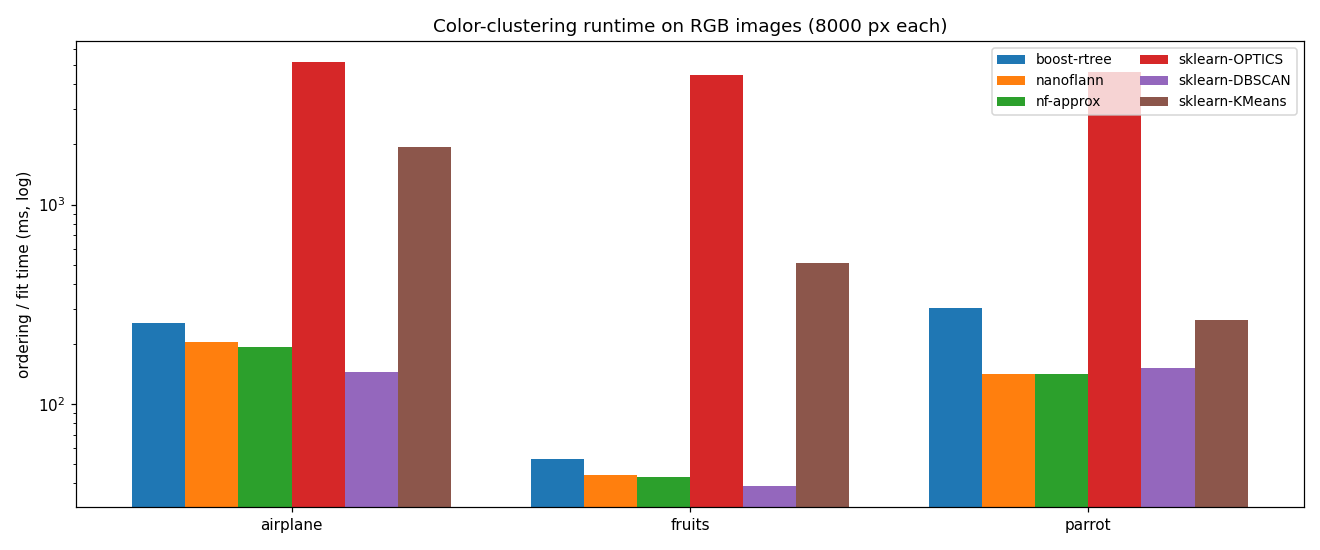
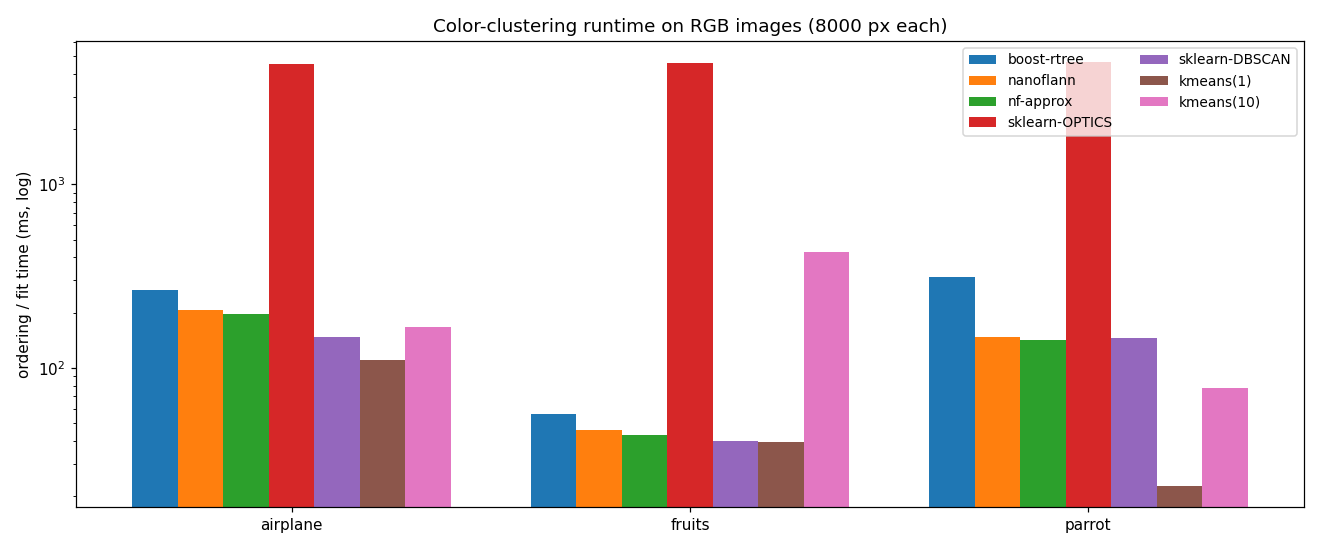
fix(perf): honest k-means timing in image runtime analysis
The image timing comparison timed k-means at n_init=10 only (10 Lloyd restarts),
which inflated it ~10x and wrongly implied OPTICS beats k-means on speed. It does
not: k-means has no neighbor graph and is the cheapest per run. Report k-means at
both n_init=1 (one run -- often faster than our OPTICS, e.g. parrot 20ms vs 146ms)
and n_init=10, warm up each estimator, and correct the perf/README takeaways.

OPTICS value over k-means is what it computes (auto k, noise, arbitrary shapes, the
hierarchy), not speed -- matching the README When-to-use table and compare_kmeans.py.
The genuine speed win remains: ~20-100x faster than scikit-learn OPTICS.

diff --git a/tools/timing_images.py b/tools/timing_images.py
@@ -25,6 +25,7 @@ import os
 import subprocess
 import sys
 import time
+import warnings
 
 import numpy as np
 from PIL import Image
@@ -86,6 +87,7 @@ def main(argv=None):
     p.add_argument("--data-dir", default="data")
     p.add_argument("--plot", default=None)
     args = p.parse_args(argv)
+    warnings.filterwarnings("ignore")  # sklearn OPTICS warns on duplicate-color zero reachability
 
     exe = os.path.abspath(args.exe)
     if not os.path.isfile(exe):
@@ -104,17 +106,28 @@ def main(argv=None):
     paths = [c[1] for c in cases]
     internal = time_internal(exe, paths, args.min_pts)
     backends = sorted({b for (_, b) in internal})  # nanoflann, nf-approx, [boost-rtree]
-    methods = backends + ["sklearn-OPTICS", "sklearn-DBSCAN", "sklearn-KMeans"]
+
+    # scikit-learn estimators. k-means is shown at BOTH n_init=1 (one Lloyd run, the
+    # fast single-shot) and n_init=10 (its quality default, ~10x the work) so the
+    # comparison is not skewed for or against it -- k-means has no neighbor graph and
+    # is the cheapest per run.
+    def estimators(mp):
+        return {
+            "sklearn-OPTICS": lambda Z: OPTICS(min_samples=mp).fit(Z),
+            "sklearn-DBSCAN": lambda Z: DBSCAN(eps=DBSCAN_EPS, min_samples=mp).fit(Z),
+            "kmeans(1)":      lambda Z: KMeans(n_clusters=KMEANS_K, n_init=1, random_state=0).fit(Z),
+            "kmeans(10)":     lambda Z: KMeans(n_clusters=KMEANS_K, n_init=10, random_state=0).fit(Z),
+        }
+    sk_methods = list(estimators(args.min_pts).keys())
+    methods = backends + sk_methods
 
     rows = []
     for label, path, n in cases:
         X = load_csv(path)
         t = {b: internal.get((path, b), float("nan")) for b in backends}
-        # warm up, then time each scikit-learn estimator on the same cloud
-        OPTICS(min_samples=args.min_pts).fit(X[:200])
-        t["sklearn-OPTICS"] = timed(lambda: OPTICS(min_samples=args.min_pts).fit(X))
-        t["sklearn-DBSCAN"] = timed(lambda: DBSCAN(eps=DBSCAN_EPS, min_samples=args.min_pts).fit(X))
-        t["sklearn-KMeans"] = timed(lambda: KMeans(n_clusters=KMEANS_K, n_init=10, random_state=0).fit(X))
+        for name, fit in estimators(args.min_pts).items():
+            fit(X[:200])                       # warm up this estimator's own code path
+            t[name] = timed(lambda fit=fit: fit(X))
         rows.append((label, n, t))
 
     head = f"{'image':10s} {'n':>6s} " + " ".join(f"{m:>15s}" for m in methods)
@@ -123,7 +136,9 @@ def main(argv=None):
     for label, n, t in rows:
         print(f"{label:10s} {n:6d} " + " ".join(f"{t[m]:15.1f}" for m in methods))
     print("\n(ms; lower is better. Internal backends @ 4 threads; scikit-learn single-process.")
-    print(f" Same sampled RGB cloud per image. min_pts={args.min_pts}, DBSCAN eps={DBSCAN_EPS}, KMeans k={KMEANS_K}.)")
+    print(f" Same sampled RGB cloud per image. min_pts={args.min_pts}, DBSCAN eps={DBSCAN_EPS}, KMeans k={KMEANS_K}.")
+    print(" k-means has no neighbor graph and is the cheapest per run; kmeans(1) is one Lloyd run,")
+    print(" kmeans(10) is its quality default. Our value vs k-means is the auto-found k + noise, not speed.)")
 
     if args.plot:
         import matplotlib

diff --git a/perf/README.md b/perf/README.md
@@ -73,19 +73,27 @@ not the surrounding bookkeeping.
 
 Runtime of color clustering (RGB in 3-D) on three standard test images, 8000 pixels sampled per
 image into the *same* cloud for every method (so scikit-learn's OPTICS stays tractable),
-`min_pts=10`, our backends at 4 threads:
+`min_pts=10`, our backends at 4 threads. k-means is shown at both `n_init=1` (one Lloyd run) and
+`n_init=10` (its quality default):
 
-| image (8000 px) | nanoflann | nf-approx | boost-rtree | sklearn-OPTICS | sklearn-DBSCAN | sklearn-KMeans |
-|-----------------|-----------|-----------|-------------|----------------|----------------|----------------|
-| airplane        | 204 ms    | 193 ms    | 255 ms      | 5169 ms        | 144 ms         | 1934 ms        |
-| fruits          |  44 ms    |  43 ms    |  53 ms      | 4450 ms        |  39 ms         |  509 ms        |
-| parrot          | 142 ms    | 141 ms    | 302 ms      | 4607 ms        | 151 ms         |  264 ms        |
+| image (8000 px) | nanoflann | nf-approx | boost-rtree | sklearn-OPTICS | sklearn-DBSCAN | kmeans(1) | kmeans(10) |
+|-----------------|-----------|-----------|-------------|----------------|----------------|-----------|------------|
+| airplane        | 247 ms    | 200 ms    | 253 ms      | 5005 ms        | 153 ms         | 109 ms    | 660 ms     |
+| fruits          |  44 ms    |  46 ms    |  52 ms      | 4526 ms        |  39 ms         |  29 ms    | 361 ms     |
+| parrot          | 146 ms    | 140 ms    | 334 ms      | 4660 ms        | 147 ms         |  20 ms    | 292 ms     |
 
-Takeaways: our OPTICS ordering is **~25–100× faster than scikit-learn's OPTICS** on the identical
-cloud, and lands in the *same band as scikit-learn's DBSCAN* despite computing the full
-cluster-ordering + hierarchy (not just flat labels). The approximate backend matches exact in 3-D
-(its payoff is in high dimensions); Boost's R\*-tree trails nanoflann. The gap vs scikit-learn
-OPTICS widens with the pixel budget. Reproduce:
+Takeaways:
+- vs **scikit-learn's OPTICS** (same algorithm): our ordering is **~20–100× faster** on the
+  identical cloud; the gap widens with the pixel budget.
+- **k-means is the cheapest per run** — it has no neighbor graph, just Lloyd iterations. A single
+  run (`kmeans(1)`) is often faster than our OPTICS (e.g. parrot 20 ms vs 146 ms). OPTICS's value
+  over k-means is *what it computes* (automatic cluster count, noise, arbitrary shapes, the full
+  hierarchy), **not speed**. k-means's quality default `n_init=10` does 10 restarts and is the
+  slower bar.
+- Our OPTICS sits in scikit-learn's **DBSCAN** band while computing the full ordering + hierarchy,
+  not just flat labels.
+- The approximate backend matches exact in 3-D (its payoff is in high dimensions); Boost's
+  R\*-tree trails nanoflann. Reproduce:
 
 ```sh
 # harness built with -DOPTICS_ENABLE_BOOST_RTREE=ON to include the Boost row